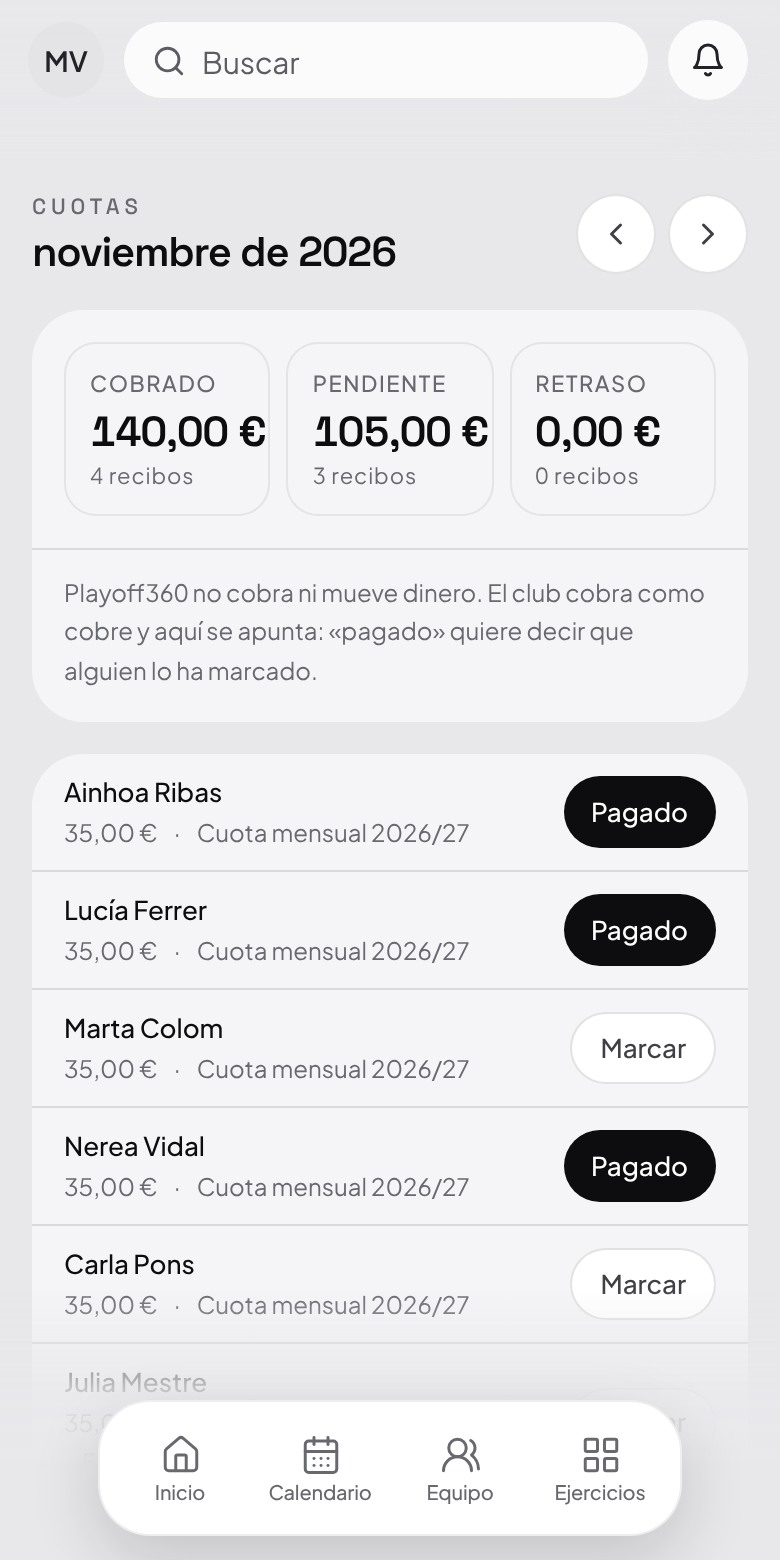
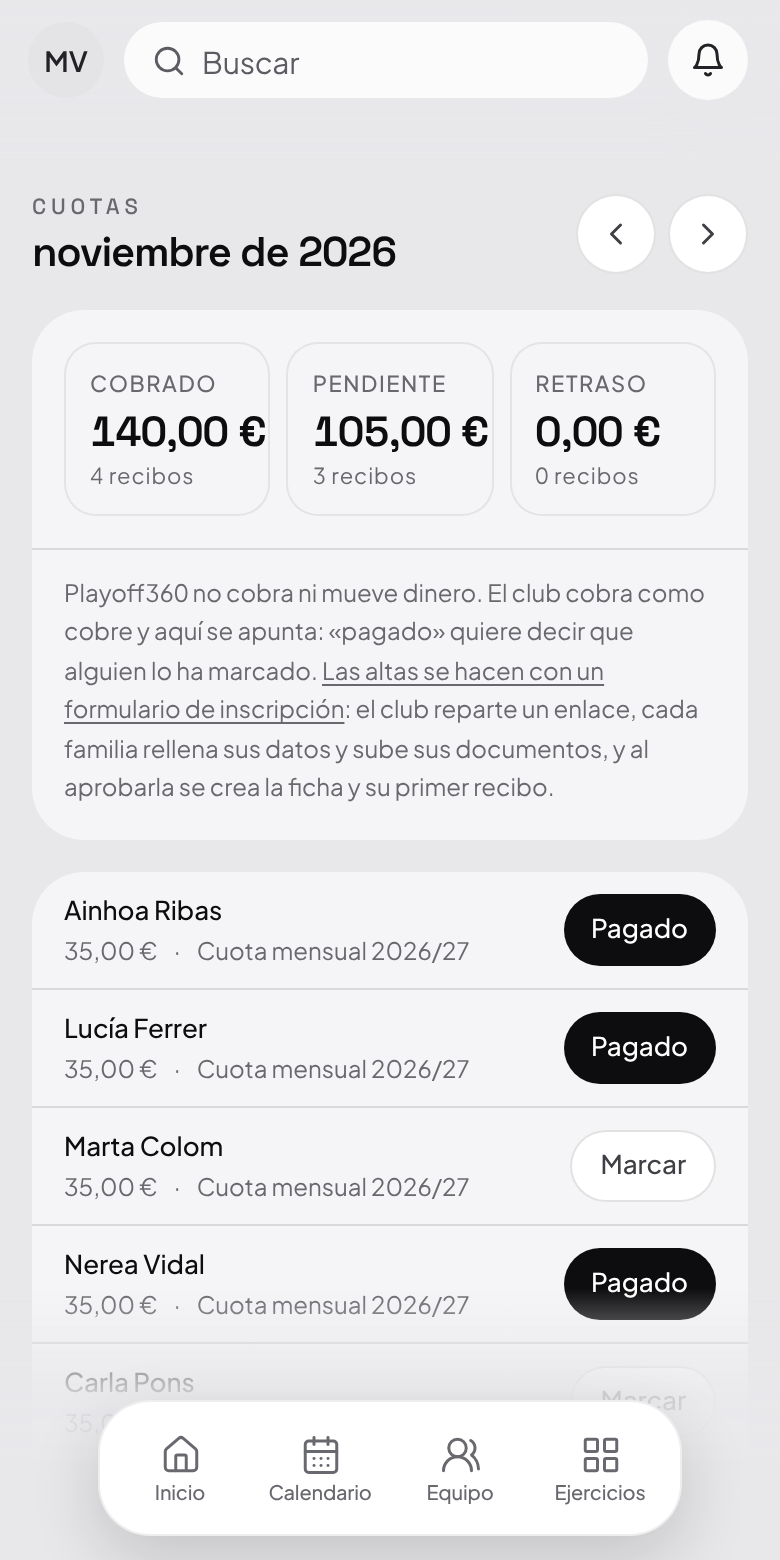
La guía cuenta las inscripciones, y las dos pantallas grandes tienen nombre corto
LO CAZÓ UNA PRUEBA QUE YA EXISTÍA. `correo.mjs` comprueba que la guía que
recibe un club nuevo nombre TODO lo que trae el plan Gratis, leyendo el
catálogo de capacidades. Al meter Cuotas e Inscripciones en ese catálogo, la
prueba se puso roja con razón: la guía no decía ni una palabra de la segunda,
que es justamente el camino por el que un club da de alta a cien familias sin
teclear cien fichas.

Así que la guía tiene ahora su sección: los cinco pasos —crear en borrador,
publicar, repartir, revisar, aprobar o rechazar—, qué ve la familia al abrir
el enlace, el justificante que se queda, y que los documentos viven en un
almacén privado del que sólo salen enlaces firmados que caducan en dos
minutos. También se dice lo que no hace: desde ahí no se cobra nada.

Y LOS NOMBRES SE ACORTAN. «Cuotas y recibos del club» e «Inscripciones con
enlace y documentos» no caben en una columna de la comparativa de planes y
quedaban rarísimos dentro de una frase de la guía. Pasan a «Cuotas y recibos»
e «Inscripciones por enlace», que es como las llamaría alguien.

De paso, dos arreglos de documentación:

 · `pruebas/README.md` explicaba `camara.mjs`, `pizarra.mjs` y `video.mjs`, y
   los tres archivos no existen: se borraron al retirar la pizarra del
   producto. Documentación que promete pruebas que no están es peor que no
   tener documentación. En su sitio va lo que sí hay ahora: el Postgres de
   prueba, qué responde y las cuatro maneras en que una prueba de SQL puede
[…]

diff --git a/presentacion/guia.html b/presentacion/guia.html
@@ -272,7 +272,7 @@
      retirado es peor que una guía más corta: manda a alguien a buscar un
      botón que no está. La sustituye lo que de verdad hay ahora en su sitio. -->
 <div class="seccion salto">
-<h2>Las cuotas</h2>
+<h2>Las cuotas y recibos</h2>
 <p>
   Para llevar quién ha pagado y quién no. <b>Playoff360 no cobra ni mueve dinero</b>: el
   club cobra como cobre —efectivo, transferencia, Bizum— y aquí se apunta. Cuando pone
@@ -303,6 +303,51 @@
   pusiste que la cuota vence el día 5, el día 6 aparece en rojo sin que toques nada.
 </p>
 
+<h2>Las inscripciones por enlace</h2>
+<p>
+  Dar de alta a cien familias a mano —nombre, fecha de nacimiento, tutor, teléfono,
+  dirección, documentos— es el trabajo de una semana. Esto lo da la vuelta: <b>el club
+  reparte un enlace y cada familia rellena su propia ficha</b>, desde el móvil y sin
+  tener cuenta en Playoff360.
+</p>
+<p>
+  Está detrás de tu avatar, en <b>Inscripciones</b>, y como las cuotas sólo la ve quien
+  administra el club: dentro hay DNI y direcciones de menores.
+</p>
+
+<h3>Cómo va</h3>
+<ol class="pasos">
+  <li>Crea el formulario: cómo se llama, de qué equipo es, qué cuota llevará asociada,
+      hasta cuándo está abierto y qué documentos pides —el DNI del jugador, el del tutor,
+      una foto, la tarjeta sanitaria—. Nace en <b>borrador</b>.</li>
+  <li>Cuando lo tengas, pulsa <b>Publicar</b>. Hasta ese momento el enlace existe pero
+      <b>no abre</b>: puedes mandártelo a ti mismo y comprobarlo sin riesgo. Al publicar
+      queda apuntado quién lo hizo y cuándo.</li>
+  <li>Reparte el enlace. Lo tienes a la vista, con un botón para copiarlo.</li>
+  <li>Cada inscripción que llega aparece arriba, <b>sin revisar</b>. Al abrirla ves la
+      ficha entera, los documentos que ha subido y la hora exacta en que aceptó cada
+      autorización.</li>
+  <li>Decide: <b>Aprobar</b> crea la ficha del jugador en la plantilla con su tutor y
+      emite su primer recibo —pendiente de pago—, todo de una vez. <b>Rechazar</b> pide
+      un motivo, porque quien se queda fuera tiene derecho a saber por qué.</li>
+</ol>
+<p class="nota">
+  Nada entra en la plantilla sin que alguien lo mire, y una inscripción no se borra
+  nunca: se rechaza con su motivo y se queda guardada.
+</p>
+
+<h3>Qué ve la familia</h3>
+<p>
+  El nombre y el escudo de tu club, el formulario, y al terminar un
+  <b>justificante</b> —algo como <code>INS-K5GCDFM4</code>— que puede decirte por
+  teléfono. No se le pide ninguna contraseña y no se le cobra nada desde ahí: si la
+  inscripción lleva cuota, el cobro lo gestionas tú después.
+</p>
+<p class="nota">
+  Los documentos se guardan en un almacén privado del que no sale ninguna dirección
+  pública: para ver uno, la aplicación pide un enlace firmado que caduca en dos minutos.
+</p>
+
 <h3>Exento no es pagado</h3>
 <p>
   Una beca, un hermano que no paga o un acuerdo puntual se marcan como <b>exento</b>, y no
@@ -327,7 +372,8 @@
     <tr>
       <td class="nombre">Gratis</td><td>0 €</td><td>1</td>
       <td>Plantilla, asistencia, disponibilidad y lesiones, entrenamientos, biblioteca de
-          ejercicios, partidos y convocatorias, calendario, cuotas y analíticas.</td>
+          ejercicios, partidos y convocatorias, calendario, cuotas y recibos,
+          inscripciones por enlace y analíticas.</td>
     </tr>
     <tr>
       <td class="nombre">Pro</td><td>9 €</td><td>2</td>

diff --git a/src/services/entitlements.ts b/src/services/entitlements.ts
@@ -90,8 +90,8 @@ export const CAPACIDADES: Record<Capacidad, Ficha> = {
      Inscripciones deben ser de un plan de pago, se cambia esa palabra y no
      hay nada más que tocar —ni una pantalla, ni esta tabla dos veces—. Lo
      que no voy a hacer es decidir por mi cuenta a cuánto se cobra qué. */
-  cuotas: { nombre: 'Cuotas y recibos del club', desde: 'free', lista: true },
-  inscripciones: { nombre: 'Inscripciones con enlace y documentos', desde: 'free', lista: true },
+  cuotas: { nombre: 'Cuotas y recibos', desde: 'free', lista: true },
+  inscripciones: { nombre: 'Inscripciones por enlace', desde: 'free', lista: true },
 
   /* LA TABLA EXISTE Y LA PANTALLA NO. `session_player_ratings` está creada,
      con su clave única por sesión y jugador y su `check (rating between 1

diff --git a/pruebas/README.md b/pruebas/README.md
@@ -196,27 +196,52 @@ compartido, la portada se queda en gris y aquí salta. Es la red que sujeta la
 única regla que no se negocia —**la portada no se toca**— mientras se repinta
 todo lo demás.
 
-## Qué comprueban `camara.mjs`, `pizarra.mjs` y `video.mjs`
-
-La pizarra se mira desde donde se quiera: la cámara gira y se inclina. Eso son
-cuentas, y las cuentas o cuadran o no:
+## Las migraciones, contra un Postgres de verdad
 
 ```sh
-npm run pizarra:camara   # sin navegador: proyectar, desproyectar, encuadre
-npm run pizarra          # las seis vistas en el navegador
-npm run pizarra:video    # que el vídeo encuadre igual que la pantalla
+sudo npm run base          # pruebas/sql/correr.sh
 ```
 
-Lo que más importa de `pizarra.mjs` no es que se vea bonito —eso hay que
-mirarlo— sino que **siga siendo usable**: que al tocar una ficha se seleccione
-esa ficha y no la de al lado, con el campo girado e inclinado. Si la cuenta de
-ida y la de vuelta no encajaran, arrastrar se iría de sitio y la pizarra no
-serviría para nada. Con `CAPTURAS=<carpeta>` deja además una imagen por vista.
+Levanta un PostgreSQL vacío en la propia máquina, le pone lo que Supabase trae
+de fábrica —el esquema `auth` con su `uid()`, los tres roles de PostgREST,
+`storage`— y aplica **las migraciones enteras desde la 0001**. Luego se hace
+pasar por un tutor y por un visitante anónimo con `set local role` y mira qué
+ve cada uno.
 
-Hay un detalle en el que se cayó esta prueba y conviene recordar: durante un
-rato **pasó mientras dibujaba siempre la vista cenital**, porque la escena
-perdía la cámara al cargarse. Una prueba que pasa no vale nada si no se ha
-comprobado que falla cuando tiene que fallar.
+Existe porque antes una migración se comprobaba de la única manera que había:
+aplicándola a producción y mirando si algo se rompía. Eso no es una prueba, es
+una apuesta, y con las políticas de Postgres es la peor de todas, porque **se
+suman**: una política mal escrita no recorta nada, amplía, y amplía en
+silencio.
+
+Lo que respondió el primer día: un tutor ve la ficha de su hijo, su recibo y el
+equipo, y **no** ve al otro niño, ni su recibo, ni una sola fila de
+`attendance` —donde el motivo de la ausencia del otro está escrito a mano en la
+misma fila—.
+
+Cuatro de las comprobaciones de la inscripción sólo pasaron después de arreglar
+**la prueba**, no el código, y las cuatro merecen recordarse:
+
+- `set local` fuera de una transacción no hace nada y avisa con un `WARNING`
+  fácil de ignorar: las consultas siguen corriendo como superusuario, que **se
+  salta RLS**. El primer intento «aprobó» enseñando los dos hijos.
+- `client_min_messages` en `warning` esconde los `raise notice`: cuatro pruebas
+  no imprimían nada, y eso se lee igual que haber pasado.
+- Una función puesta en un `where` contra una tabla vacía **no se ejecuta
+  nunca**: no hay filas que filtrar. La prueba pasaba sin aprobar nada.
+- Un bloque plpgsql con `exception` es una subtransacción: la fila que creaba
+  se deshacía con el error.
+
+No prueba PostgREST, ni el cliente de JavaScript, ni Storage de verdad. Prueba
+el esquema, las políticas y las funciones, que es donde está el riesgo de
+enseñar el dato de otro.
+
+De paso vuelca el catálogo de deportes, que es lo que necesita `deportes.mjs`
+donde no hay salida a Supabase:
+
+```sh
+SPORTS_JSON=/tmp/sports.json npm run app:deportes
+```
 
 ## Los datos son falsos
 
